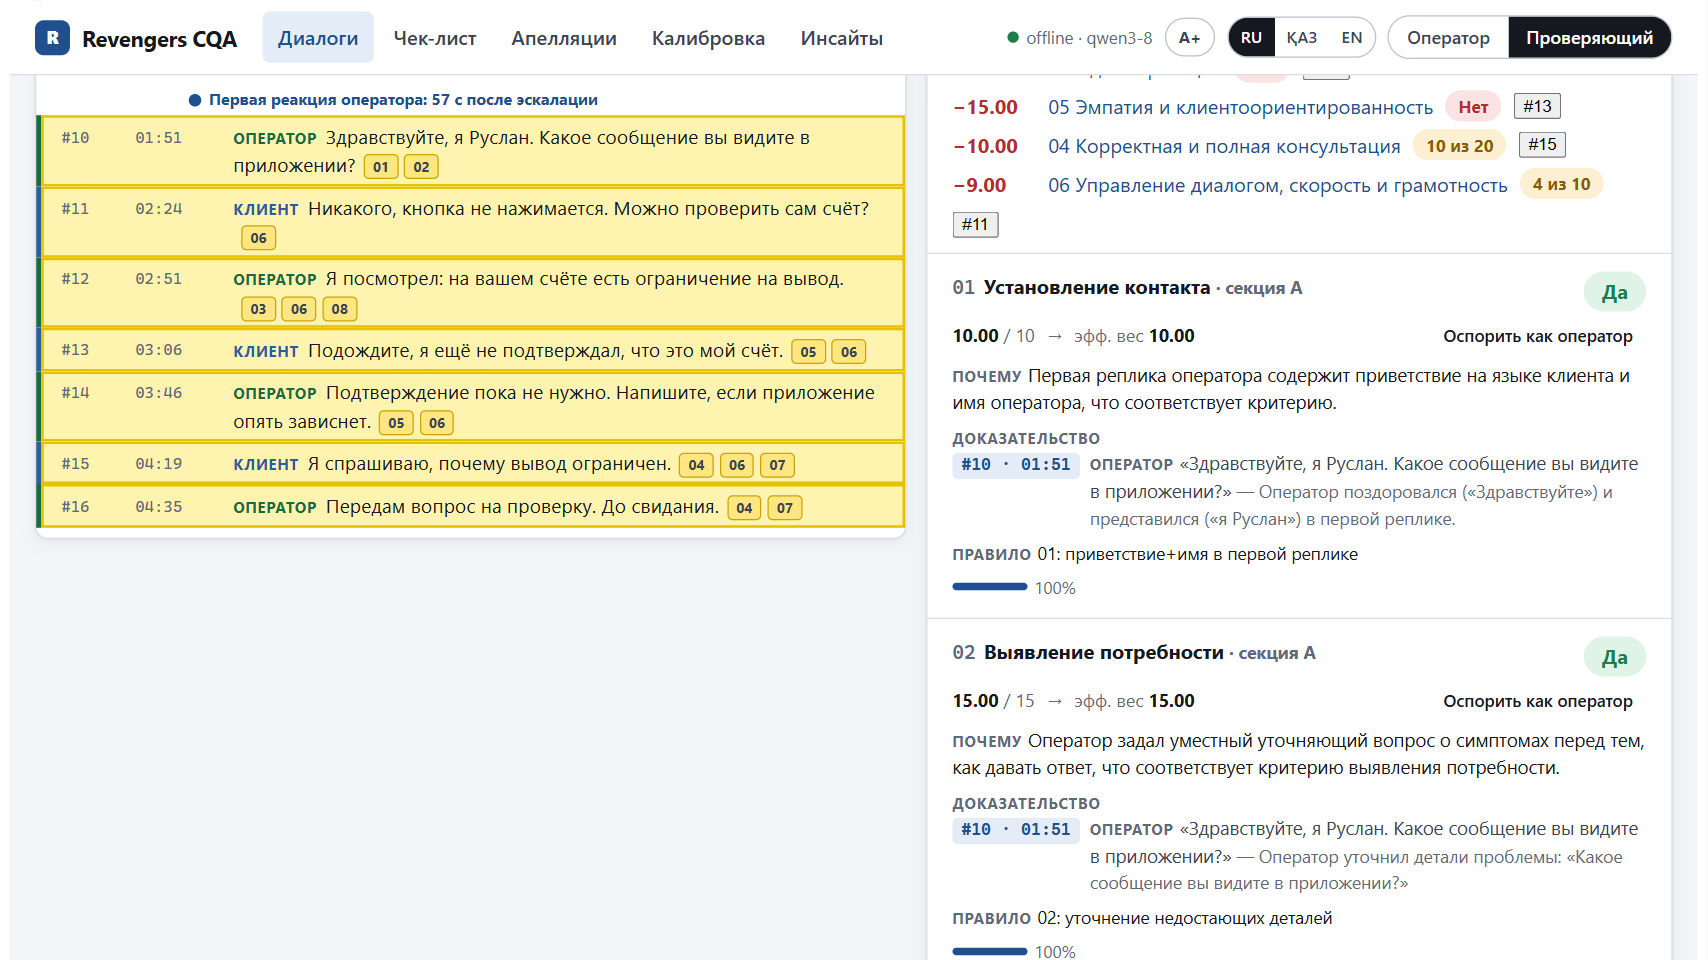
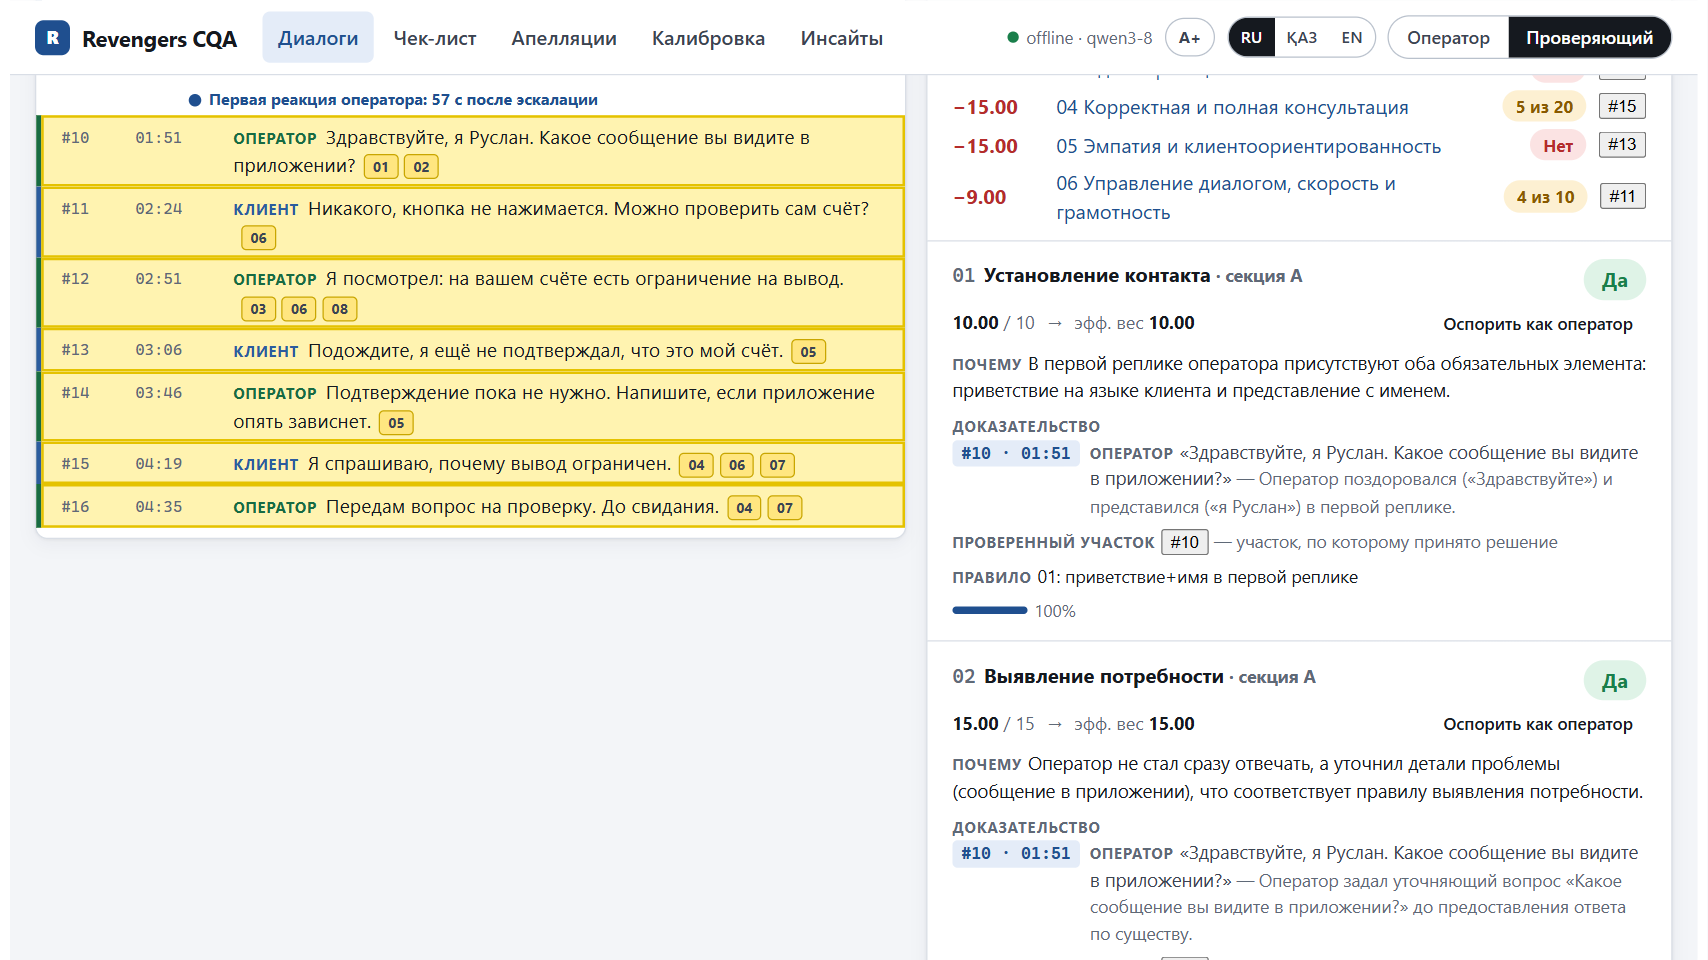
docs: README screenshots retaken on the v6 results (dialogs with results.json check, card, why-lower, gross error, calibration, insights, KZ and EN)

diff --git a/docs/img/README.md b/docs/img/README.md
@@ -2,12 +2,12 @@
 
 Сняты в Chrome при 1366×768, масштаб 125 %, набор DEV (65 диалогов), сохранённые результаты модели `qwen3-8` (чек-лист v1), сервер в режиме `offline` (в шапке «offline · qwen3-8»). Интерфейс русский, кроме 11 (казахский) и 12 (английский). Файлы 01, 02, 09, 10 пересняты 7 ноября вечером с новой шапкой (индикатор провайдера, **A+**, переключатель RU · ҚАЗ · EN, роль) и с оценками после переоценки DEV (эталон v1.1, «Оценено 07.11.2026, 22:51»); 11–13 добавлены тогда же; 03–08e сняты раньше, на прежнем интерфейсе. Файлы используются в README.md, docs/DEMO.md и в деке `pitch/`.
 
-**Все снимки сделаны до переоценки DEV в ночь на 8 ноября (прогон v6, `reports/runs/alem_qwen3-8_v6_rules.json`).** Интерфейс на них актуален, но часть чисел изменилась; там, где число на снимке устарело, ниже рядом указано текущее значение («сейчас: …») из `results/dev/results.json` и `reports/calibration.md`. Снимки 04, 05, 11 и числа на них по-прежнему совпадают с текущей оценкой.
+**Снимки 01, 02, 05, 09, 10, 11, 12, 13 сняты после переоценки DEV в ночь на 8 ноября (прогон v6) и показывают текущие числа.** Снимки 03, 04, 06, 07, 08* сделаны раньше: интерфейс тот же, отдельные баллы могли измениться — актуальные значения в `results/dev/results.json`.
 
 | Файл | Что на экране |
 |---|---|
-| 01-dialogs.png | Диалоги: кнопки «Загрузить набор», «Загрузить файл», «Экспорт CSV»; фильтры «Все наборы / языки / каналы», «С грубой ошибкой», «Требует проверки», поиск «ID или оператор…», «Оценить выбранные», «Оценить все»; таблица — ID (число реплик и длительность), язык, канал, оператор, итог, грубая ошибка, мин. уверенность, апелляция, версия; первые строки `p1-en-001`…`p1-en-007` (92.31, 92.31, 92.31, 92.31, 85.38, 95.50, 56.88; сейчас: 92.31, 92.31, 92.31, 92.31, 92.31, 100.00, 76.92) |
-| 02-card-75-63.png | Карточка `p1-ru-003` (имя файла историческое — эталонный вектор 75.63; на снимке продукт ставил 06 = 4, итог **70.00**; сейчас: 06 = 10, итог **81.25**, секция C 85.71, «Почему снижена оценка»: −12.50 04, −6.25 07): статус «Итоговая», мин. уверенность 91 %; секции A 100.00 (25 из 25), B 50.00 (10 из 20), C 60.00 (21 из 35); блок «Почему снижена оценка»: −12.50 04 «10 из 20» #14, −11.25 06 «4 из 10» #14, −6.25 07 «Нет» #14; слева — начало транскрипта (клиент, бот AIM, эскалация) |
+| 01-dialogs.png | Диалоги: «Загрузить набор», «Загрузить файл», «Экспорт CSV», **«results.json ✓ 65»** (файл проверен по формату организаторов); фильтры наборов, языков, каналов, «С грубой ошибкой», «Требует проверки»; под ID — первое сообщение клиента |
+| 02-card-75-63.png | Карточка `p1-ru-003` (имя файла историческое): итог 81.25, секции A 100.00 / B 50.00 / C 85.71, блок «Почему снижена оценка» −12.50 (04, 10 из 20) и −6.25 (07, вопрос клиента #14 о комиссии остался без ответа) |
 | 03-na.png | `p4-ru-003`, критерий 07: N/A «Чат оборвался до возможности его завершить» — вес 5 исключён и перераспределён, доказательства #76 и #78, источник — детерминированное правило |
 | 03b-na-p1-ru-003.png | `p1-ru-003`, критерий 03: N/A «Запрос не требовал идентификации», вес 20 исключён из расчёта |
 | 04-voice.png | Звонок `p4-ru-003` (95.26): аудиоплеер после клика по доказательству — запись перемотана на 04:25 (реплика #49, данные счёта после идентификации в 03:41) |
@@ -20,10 +20,10 @@
 | 08c-diff.png | «Сравнить»: diff v1 → v2 — удалён 07 «Завершение», добавлен 09 «Скорость первой реакции» |
 | 08d-simulation.png | «Симуляция» на 3 диалогах: сохранённый итог, симуляция, Δ, изменившиеся критерии; пометка «Результаты симуляции не сохранены» |
 | 08e-apply.png | «Сохранить и применить» → «Сохранить, активировать и оценить»: «Версия v2 применена», таблица по диалогам (неизменённые критерии — из кэша) |
-| 09-calibration.png | Калибровка (выполнена 07.11.2026 22:51, n = 65, tune 45 / holdout 20): совпадение итогов 54 %, средняя ошибка итога 6.18, итог в пределах ±5 68 %, полнота и точность флагов 100 %, повторяемость 97 % (test–retest, n = 20), стоимость 0 ₸, учтено решений проверяющего 0; графики κ Коэна (0.88 · 0.76 · 0.95 · 0.59 · 0.47 · 0.49 · 0.86 · 1.00) и точности по критериям (99 · 89 · 99 · 92 · 95 · 85 · 95 · 100 %) с 95 % ДИ и линией цели. Сейчас (отчёт 08.11.2026, v6): совпадение итогов 63 %, средняя ошибка 5.28, ±5 68 %; κ 0.88 · 0.86 · 0.95 · 0.70 · 0.48 · 0.51 · 0.86 · 1.00; точность 99 · 94 · 99 · 97 · 95 · 86 · 95 · 100 % |
-| 10-insights.png | Инсайты (на снимке — прежняя оценка; сейчас средний итог 83.43, медиана 92.31, распределение 20–40: 4, 40–60: 4, 60–80: 10, 80–100: 47, средний итог RU 81.40 · KZ 86.34 · EN 85.24 · чат 83.85 · звонок 78.31): 65 диалогов, средний итог 80.63 (медиана 92.31), эскалация к оператору 99 % (64 из 64 диалогов с ботом), удержано ботом 0 %, первая реакция — медиана 1 мин 15 с, p90 1 мин 56 с, требуют проверки 10, стоимость оценок 0 ₸; распределение итогов (20–40: 6, 40–60: 6, 60–80: 9, 80–100: 44); средний итог RU 78.88 · KZ 86.32 · EN 79.01 · чат 80.82 · звонок 78.31; начало графика доли «Нет» по критериям (01 — 8 %, 02 — 45 %) |
+| 09-calibration.png | Калибровка (прогон v6, n = 65, tune 45 / holdout 20): точное совпадение итогов 63 %, средняя ошибка итога 5.28, грубые ошибки 8 из 8 без ложных, точность и κ по критериям с 95 % ДИ |
+| 10-insights.png | Инсайты (прогон v6): средний итог 83.43, распределение итогов, доля «Нет» по критериям, эскалации, первая реакция, грубые ошибки, карточки операторов |
 | 11-kk-card.png | Карточка `p1-kz-013` в казахском интерфейсе («Диалогтар», «Бағалау нәтижесі», «Тексеруді қажет етеді»): итог 69.23, красный блок «Өрескел қате — компанияны айналып өту» с цитатой #12 и подписью, что флаг не влияет на итог; секции A 100.00, B 100.00, C 42.86; «Баға неге төмендеді»: −23.08 05 «Жоқ» #13, −7.69 07 «Жоқ» #12. Названия секций и критериев — из чек-листа, на русском |
 | 12-en-dialogs.png | Dialogs в английском интерфейсе: «Load set», «Upload file», «Export CSV», фильтры «With gross error», «Needs review», «Evaluate selected / Evaluate all»; та же таблица, что на 01 (`p1-en-001`…`p1-en-008`) |
-| 13-why-lower.png | Карточка `p1-ru-009` (46.00, флаг «раскрытие данных»; сейчас: 41.00, 04 = «5 из 20», −15.00), прокрутка к блоку «Почему снижена оценка»: видны −15.00 05 «Нет» #13, −10.00 04 «10 из 20» #15, −9.00 06 «4 из 10» #11 (строка −20.00 03 «Нет» — выше края кадра); слева подсвечены реплики #10–#16 с номерами критериев, ссылающихся на них; первая реакция оператора — 57 с после эскалации; справа начало карточек 01 и 02 («Да», доказательство #10) |
+| 13-why-lower.png | Карточка `p1-ru-009` (41.00, флаг «раскрытие данных»), прокрутка к блоку «Почему снижена оценка»: потери по 03, 04, 05, 06 с переходом к реплике |
 
 Резервное видео полного сценария (`docs/DEMO.md`, 4:26) — `pitch/assets/demo-backup.webm`, таймкоды шагов — `pitch/assets/demo-steps.md` (вне репозитория).
